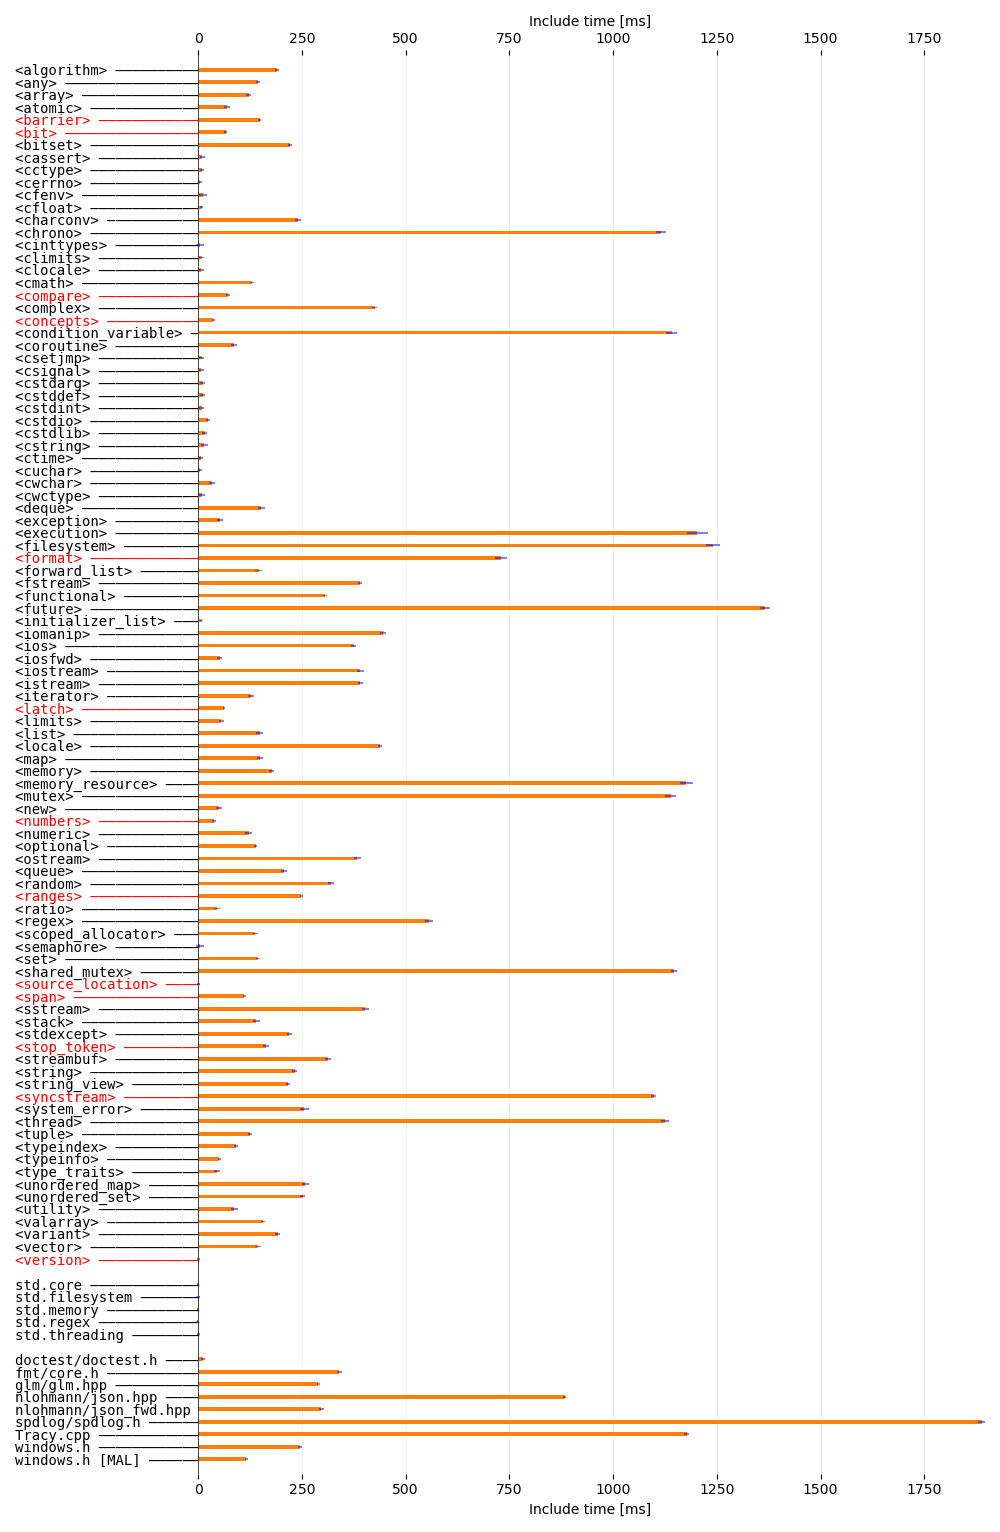
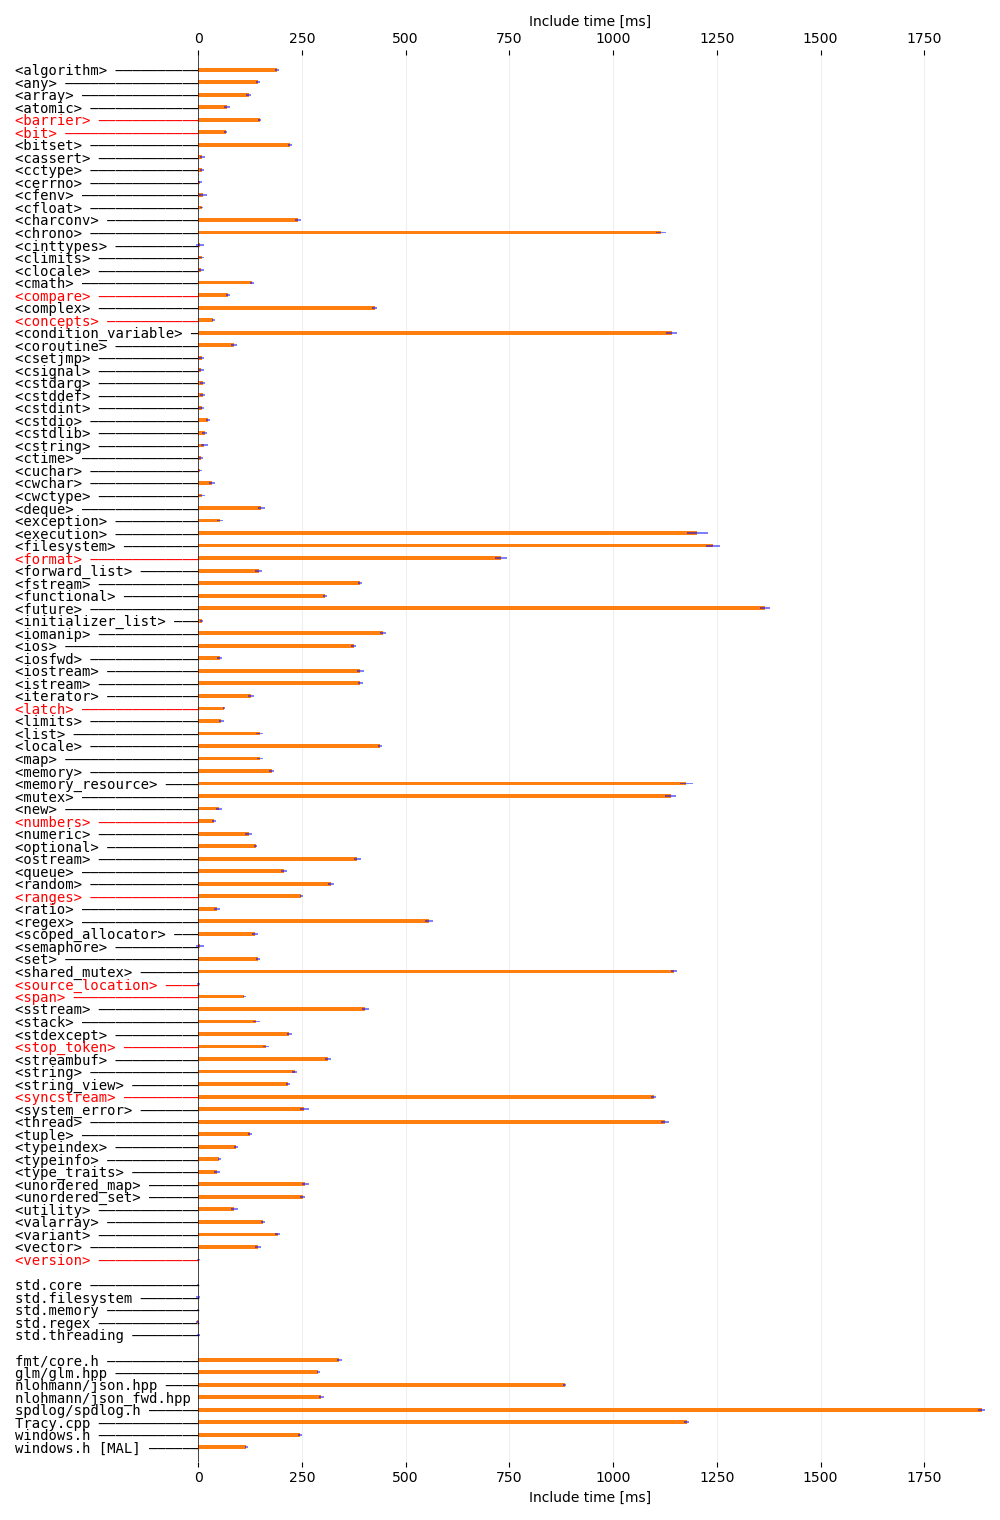
removed doctest because it's silly with its single-include define

Changed region(s): [[0.0, 0.0309, 0.775, 0.9586]]

diff --git a/readme.md b/readme.md
@@ -31,7 +31,6 @@ The numbers are measured with care, but are easy to misinterpret. Note:
 - [JSON for Modern C++](https://github.com/nlohmann/json) v3.9.1. Note that this is split into the main header (nl_json - `json.hpp`) and the forward include header (nl_json_fwd - `json_fwd.hpp`). The latter is what you would include more often.
 - [ned14/outcome](https://github.com/ned14/outcome) v2.1.3.
 - [glm](https://github.com/g-truc/glm) v0.9.9.8. glm is very modular, this measures the include of `glm.hpp` - which might be on the larger side of what you would typically include.
-- [doctest](https://github.com/onqtam/doctest) 2.4.5.
 
 ## Methodology
 All reported times are based on release builds. The complete compile command without includes is:
@@ -49,4 +48,4 @@ The plotted errors are the standard deviations of those numbers. The results com
 The sources being compiled consist of 10 identical translation units with the resulting time being divided by 10 to get the individual cost.  That was done to reduce statistical noise that was caused by the many small file system operations.
 
 
-TODO: fix doctest; run again: check <format> after; add vulkan.hpp
+TODO: add vulkan.hpp
